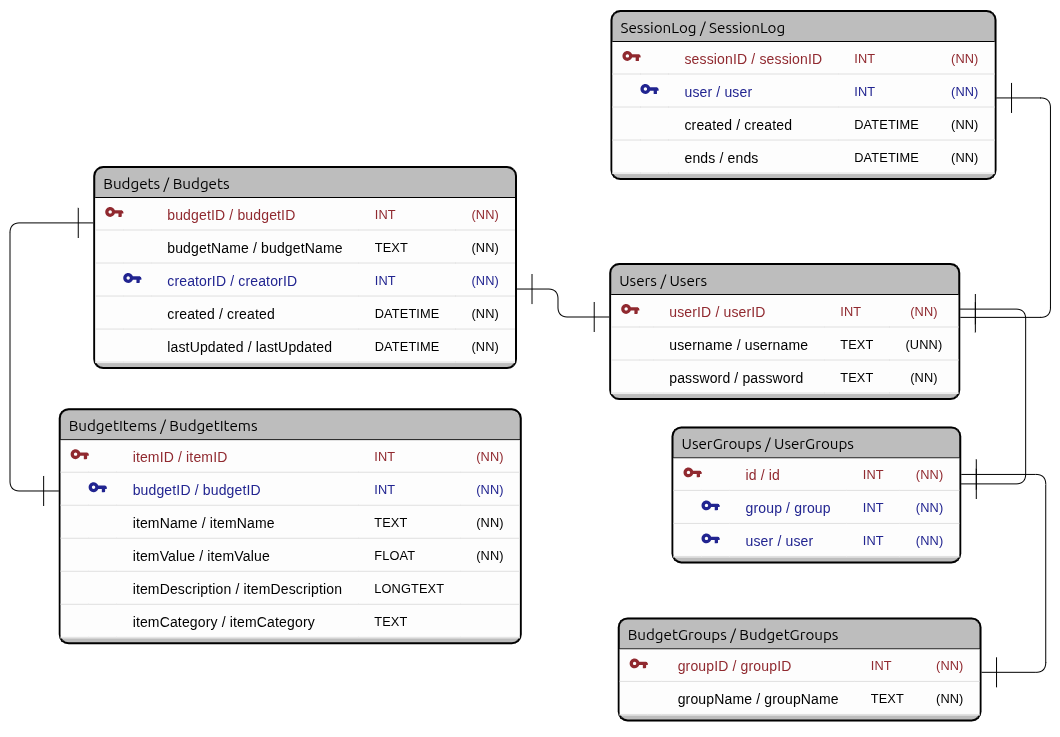
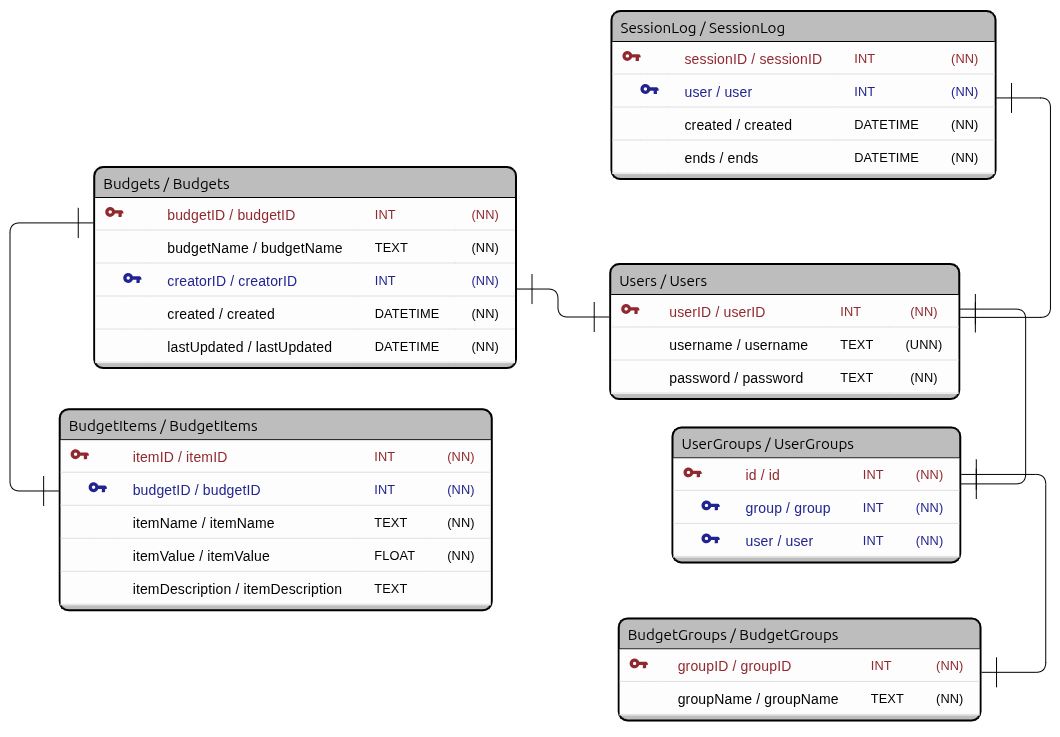
Added budgetItems table with a modification to it and the ER Diagram

Changed region(s): [[0.0311, 0.7802, 0.4981, 0.8738], [0.4358, 0.5305, 0.4981, 0.7802]]

diff --git a/backend/DBConn.py b/backend/DBConn.py
@@ -1,4 +1,4 @@
-from sqlalchemy import Boolean, String, Integer, ForeignKey, create_engine
+from sqlalchemy import Boolean, String, Integer, Float, ForeignKey, create_engine
 from sqlalchemy.orm import DeclarativeBase, Mapped, mapped_column, relationship, sessionmaker
 import uuid
 
@@ -25,11 +25,16 @@ class budgets(Base):
     creator: Mapped["users"] = relationship(back_populates="budgets")
     created: Mapped[str] = mapped_column(String(60), nullable=False)
     lastUpdated: Mapped[str] = mapped_column(String(60), nullable=False)
+    items: Mapped[list["budgetItems"]] = relationship(back_populates="budget")
 
-
-# class budgetItems(Base):
-#     __tablename__ = "BudgetItems"
-
+class budgetItems(Base):
+    __tablename__ = "BudgetItems"
+    itemID: Mapped[int] = mapped_column(Integer, primary_key=True, autoincrement=True)
+    budgetID: Mapped[int] = mapped_column(ForeignKey("Budgets.budgetID"))
+    budget: Mapped[budgets] = relationship(back_populates="items")
+    itemName: Mapped[str] = mapped_column(String(60), nullable=False)
+    itemValue: Mapped[float] = mapped_column(Float, nullable=False)
+    itemDescription: Mapped[str] = mapped_column(String(120), nullable=False)
 
 # class userGroups(Base):
 #     __tablename__ = "UserGroups"
